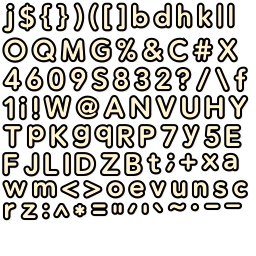
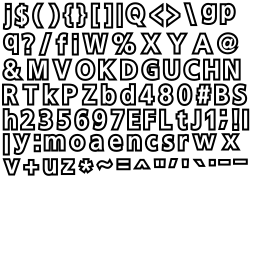
allfont 교체

diff --git a/Classes/CountingGame.cpp b/Classes/CountingGame.cpp
@@ -67,7 +67,7 @@ bool CountingGame::init(int priority, const std::function<void(CCObject*, SEL_Ca
 	m_menu->setPropaOnBegan(true);
 	addChild(m_menu, 1);
 	
-	m_timeFnt = CCLabelBMFont::create(CCString::createWithFormat("%d", m_remainTime)->getCString(), "etc_font.fnt");
+	m_timeFnt = CCLabelBMFont::create(CCString::createWithFormat("%d", m_remainTime)->getCString(), "allfont.fnt");
 	m_timeFnt->setPosition(ccp(420, 270));
 	addChild(m_timeFnt, 2);
 	
@@ -186,7 +186,7 @@ void CountingGame::createObject(float dt)
 																			addChild(resultMark, 10);
 																			
 																			CCLog("answer");
-																			CCLabelBMFont* result = CCLabelBMFont::create("ANSWER", "etc_font.fnt");
+																			CCLabelBMFont* result = CCLabelBMFont::create("ANSWER", "allfont.fnt");
 																			result->setPosition(ccp(240, 160));
 																			addChild(result);
 																			CCLog("correct!!");
@@ -228,7 +228,7 @@ void CountingGame::createObject(float dt)
 																			CCSprite* resultMark = CCSprite::create("bonusgame_bosscount_cancel.png");
 																			resultMark->setPosition(item->getPosition());
 																			addChild(resultMark, 10);
-																			CCLabelBMFont* result = CCLabelBMFont::create("WRONG", "etc_font.fnt");
+																			CCLabelBMFont* result = CCLabelBMFont::create("WRONG", "allfont.fnt");
 																			result->setPosition(ccp(240, 160));
 																			addChild(result);
 																			m_menu->setTouchEnabled(false);

diff --git a/Classes/StageSettingPopup.cpp b/Classes/StageSettingPopup.cpp
@@ -266,19 +266,19 @@ bool StageSettingPopup::init()
 	top_case->setPosition(ccp(240,(myDSH->puzzle_ui_top-320.f)/2.f + 320.f + 33.f));
 	addChild(top_case, kSSP_Z_top);
 	
-	CountingBMLabel* ruby_label = CountingBMLabel::create(CCString::createWithFormat("%d", mySGD->getStar())->getCString(), "etc_font.fnt", 0.3f, "%d");
+	CountingBMLabel* ruby_label = CountingBMLabel::create(CCString::createWithFormat("%d", mySGD->getStar())->getCString(), "allfont.fnt", 0.3f, "%d");
 	ruby_label->setPosition(ccp(94,top_case->getContentSize().height/2.f));
 	top_case->addChild(ruby_label);
 	
 	mySGD->setStarLabel(ruby_label);
 	
-	CountingBMLabel* gold_label = CountingBMLabel::create(CCString::createWithFormat("%d", mySGD->getGold())->getCString(), "etc_font.fnt", 0.3f, "%d");
+	CountingBMLabel* gold_label = CountingBMLabel::create(CCString::createWithFormat("%d", mySGD->getGold())->getCString(), "allfont.fnt", 0.3f, "%d");
 	gold_label->setPosition(ccp(185,top_case->getContentSize().height/2.f));
 	top_case->addChild(gold_label);
 	
 	mySGD->setGoldLabel(gold_label);
 	
-	CountingBMLabel* friend_point_label =  CountingBMLabel::create(CCString::createWithFormat("%d", mySGD->getFriendPoint())->getCString(), "etc_font.fnt", 0.3f, "%d");
+	CountingBMLabel* friend_point_label =  CountingBMLabel::create(CCString::createWithFormat("%d", mySGD->getFriendPoint())->getCString(), "allfont.fnt", 0.3f, "%d");
 	friend_point_label->setPosition(ccp(427,top_case->getContentSize().height/2.f));
 	top_case->addChild(friend_point_label);
 	

diff --git a/Classes/CardCase.cpp b/Classes/CardCase.cpp
@@ -470,7 +470,7 @@ void CardCase::myInit( int t_selected_card_number )
 	option_case->setScale(1.5f);
 	addChild(option_case, kCARDCASE_Z_innerCase);
 
-	CountingBMLabel* pow_label = CountingBMLabel::create("0", "etc_font.fnt", 0.5f, "%d");
+	CountingBMLabel* pow_label = CountingBMLabel::create("0", "allfont.fnt", 0.5f, "%d");
 	pow_label->setPosition(ccp(75,15));//145,58));
 	pow_label->setColor(ccRED);
 	pow_label->setScale(1.8f);
@@ -478,7 +478,7 @@ void CardCase::myInit( int t_selected_card_number )
 
 	pow_label->setString(CCString::createWithFormat("%d", int(NSDS_GI(kSDS_CI_int1_missile_power_i, t_selected_card_number)*((card_level-1)*0.1f+1.f)))->getCString());
 
-	CountingBMLabel* dex_label = CountingBMLabel::create("0", "etc_font.fnt", 0.5f, "%d");
+	CountingBMLabel* dex_label = CountingBMLabel::create("0", "allfont.fnt", 0.5f, "%d");
 	dex_label->setPosition(ccp(275,15));//145,26));
 	dex_label->setColor(ccGREEN);
 	dex_label->setScale(1.8f);
@@ -486,7 +486,7 @@ void CardCase::myInit( int t_selected_card_number )
 
 	dex_label->setString(CCString::createWithFormat("%d", int(NSDS_GI(kSDS_CI_int1_missile_dex_i, t_selected_card_number)*((card_level-1)*0.1f+1.f)))->getCString());
 
-	CountingBMLabel* spd_label = CountingBMLabel::create("0.0", "etc_font.fnt", 0.5f, "%.1f");
+	CountingBMLabel* spd_label = CountingBMLabel::create("0.0", "allfont.fnt", 0.5f, "%.1f");
 	spd_label->setPosition(ccp(175,15));//180,42));
 	spd_label->setColor(ccBLUE);
 	spd_label->setScale(1.8f);

diff --git a/Classes/PuzzleMapScene.cpp b/Classes/PuzzleMapScene.cpp
@@ -842,19 +842,19 @@ void PuzzleMapScene::setUIs()
 	top_case->setPosition(getUiButtonPosition(kPMS_MT_top));
 	addChild(top_case, kPMS_Z_ui_button, kPMS_MT_top);
 	
-	ruby_label = CountingBMLabel::create(CCString::createWithFormat("%d", mySGD->getStar())->getCString(), "etc_font.fnt", 0.3f, "%d");
+	ruby_label = CountingBMLabel::create(CCString::createWithFormat("%d", mySGD->getStar())->getCString(), "allfont.fnt", 0.3f, "%d");
 	ruby_label->setPosition(ccp(94,top_case->getContentSize().height/2.f));
 	top_case->addChild(ruby_label);
 	
 	mySGD->setStarLabel(ruby_label);
 	
-	gold_label = CountingBMLabel::create(CCString::createWithFormat("%d", mySGD->getGold())->getCString(), "etc_font.fnt", 0.3f, "%d");
+	gold_label = CountingBMLabel::create(CCString::createWithFormat("%d", mySGD->getGold())->getCString(), "allfont.fnt", 0.3f, "%d");
 	gold_label->setPosition(ccp(185,top_case->getContentSize().height/2.f));
 	top_case->addChild(gold_label);
 	
 	mySGD->setGoldLabel(gold_label);
 	
-	friend_point_label =  CountingBMLabel::create(CCString::createWithFormat("%d", mySGD->getFriendPoint())->getCString(), "etc_font.fnt", 0.3f, "%d");
+	friend_point_label =  CountingBMLabel::create(CCString::createWithFormat("%d", mySGD->getFriendPoint())->getCString(), "allfont.fnt", 0.3f, "%d");
 	friend_point_label->setPosition(ccp(427,top_case->getContentSize().height/2.f));
 	top_case->addChild(friend_point_label);
 	

diff --git a/Classes/HatGacha.cpp b/Classes/HatGacha.cpp
@@ -325,7 +325,7 @@ bool HatGachaSub::init(KSAlertView* av, std::function<void(void)> callback, cons
 		
 		std::string valueStr = CCString::createWithFormat("%d", temp_rs->m_value)->getCString();
 		valueStr = std::string("+") + KS::insert_separator(valueStr);
-		CCLabelBMFont* value = CCLabelBMFont::create(valueStr.c_str(), "mb_white_font.fnt");
+		CCLabelBMFont* value = CCLabelBMFont::create(valueStr.c_str(), "allfont.fnt");
 		rs->addChild(value);
 		value->setPosition(ccp(rs->getContentSize().width, rs->getContentSize().height) / 2.f);
 		
@@ -360,7 +360,7 @@ bool HatGachaSub::init(KSAlertView* av, std::function<void(void)> callback, cons
 			
 			std::string valueStr = CCString::createWithFormat("%d", temp_rs->m_value)->getCString();
 			valueStr = std::string("+") + KS::insert_separator(valueStr);
-			CCLabelBMFont* value = CCLabelBMFont::create(valueStr.c_str(), "mb_white_font.fnt");
+			CCLabelBMFont* value = CCLabelBMFont::create(valueStr.c_str(), "allfont.fnt");
 			fakeItem->addChild(value);
 			value->setPosition(ccp(rs->getContentSize().width, fakeItem->getContentSize().height) / 2.f);
 			

diff --git a/Classes/RankPopup.cpp b/Classes/RankPopup.cpp
@@ -733,7 +733,7 @@ CCTableViewCell * RankPopup::tableCellAtIndex (CCTableView * table, unsigned int
 	}
 	else
 	{
-		CCLabelBMFont* rankFnt = CCLabelBMFont::create(boost::str(boost::format("%||") % (idx + 1)).c_str(), "etc_font.fnt");
+		CCLabelBMFont* rankFnt = CCLabelBMFont::create(boost::str(boost::format("%||") % (idx + 1)).c_str(), "allfont.fnt");
 		cell->addChild(rankFnt);
 		rankFnt->setPosition(ccp(19, 19));
 	}
@@ -1768,14 +1768,14 @@ void RankPopup::touchCellIndex(int idx)
 	stageStr = KS::insert_separator(stageStr, ',', 3); // 3자리 마다 콤마찍기
 	m_highScore =
 	CCLabelBMFont::create(
-						  scoreStr.c_str(), "mb_white_font.fnt");
+						  scoreStr.c_str(), "allfont.fnt");
 	m_highScore->setScale(0.5f);
 	m_highScore->setPosition(ccp(125, 27));
 	addChild(m_highScore, 3);
 
 	m_highStage =
 		CCLabelBMFont::create(
-				stageStr.c_str(), "mb_white_font.fnt");
+				stageStr.c_str(), "allfont.fnt");
 	m_highStage->setScale(0.5f);
 	m_highStage->setPosition(ccp(125, 43));
 	addChild(m_highStage, 3);

diff --git a/Classes/MiniGamePopup.cpp b/Classes/MiniGamePopup.cpp
@@ -173,15 +173,15 @@ void MiniGamePopup::startCalcAction()
 	reward_case->setPosition(ccp(240-480, 150));
 	addChild(reward_case, kMiniGameZorder_content);
 	
-	reward_gold = CountingBMLabel::create("0", "etc_font.fnt", 1.f, "%d");
+	reward_gold = CountingBMLabel::create("0", "allfont.fnt", 1.f, "%d");
 	reward_gold->setPosition(ccp(210,44+25));
 	reward_case->addChild(reward_gold);
 	
-	reward_ruby = CountingBMLabel::create("0", "etc_font.fnt", 1.f, "%d");
+	reward_ruby = CountingBMLabel::create("0", "allfont.fnt", 1.f, "%d");
 	reward_ruby->setPosition(ccp(210,42.5f));
 	reward_case->addChild(reward_ruby);
 	
-	reward_social = CountingBMLabel::create("0", "etc_font.fnt", 1.f, "%d");
+	reward_social = CountingBMLabel::create("0", "allfont.fnt", 1.f, "%d");
 	reward_social->setPosition(ccp(210,41-25));
 	reward_case->addChild(reward_social);
 	

diff --git a/Classes/StagePiece.cpp b/Classes/StagePiece.cpp
@@ -206,7 +206,7 @@ void StagePiece::myInit (string t_piece, int t_number, int t_level, CCPoint t_p,
 		level_label->setPosition(ccp(piece_img->getContentSize().width/2.f, piece_img->getContentSize().height/2.f-6));
 		piece_img->addChild(level_label);
 		
-		CCLabelBMFont* level_count = CCLabelBMFont::create(CCString::createWithFormat("%d", stage_level)->getCString(), "levelcount.fnt");
+		CCLabelBMFont* level_count = CCLabelBMFont::create(CCString::createWithFormat("%d", stage_level)->getCString(), "allfont.fnt");
 		level_count->setAnchorPoint(ccp(0.5,0.5));
 		level_count->setPosition(ccp(piece_img->getContentSize().width/2.f, piece_img->getContentSize().height/2.f+6));
 		piece_img->addChild(((CCLabelBMFont*)level_count));

diff --git a/Classes/StageInfoDown.cpp b/Classes/StageInfoDown.cpp
@@ -268,7 +268,7 @@ void StageInfoDown::resultGetStageInfo(Json::Value result_data)
 			state_ment->setString("이미지 정보를 다운로드 합니다.");
 			ing_download_cnt = 1;
 			ing_download_per = 0;
-			download_state = CCLabelBMFont::create(CCSTR_CWF("%.0f\t%d/%d", ing_download_per*100.f, ing_download_cnt, int(df_list.size()))->getCString(), "etc_font.fnt");
+			download_state = CCLabelBMFont::create(CCSTR_CWF("%.0f\t%d/%d", ing_download_per*100.f, ing_download_cnt, int(df_list.size()))->getCString(), "allfont.fnt");
 			download_state->setPosition(ccp(240,130));
 			addChild(download_state, kSID_Z_content);
 			is_downloading = true;

diff --git a/Classes/PuzzlePiece.h b/Classes/PuzzlePiece.h
@@ -478,7 +478,7 @@ private:
 		level_label->setPosition(ccp(piece_img->getContentSize().width/2.f, piece_img->getContentSize().height/2.f));
 		piece_img->addChild(level_label);
 		
-		CCLabelBMFont* level_count = CCLabelBMFont::create(CCString::createWithFormat("%d", stage_level)->getCString(), "levelcount.fnt");
+		CCLabelBMFont* level_count = CCLabelBMFont::create(CCString::createWithFormat("%d", stage_level)->getCString(), "allfont.fnt");
 		level_count->setAnchorPoint(ccp(0.5,0.5));
 		level_count->setPosition(ccp(piece_img->getContentSize().width/2.f-9, piece_img->getContentSize().height/2.f-10));
 		piece_img->addChild(level_count);

diff --git a/Classes/StageListDown.cpp b/Classes/StageListDown.cpp
@@ -372,7 +372,7 @@ void StageListDown::resultGetStageList(Json::Value result_data)
 			state_ment->setPosition(ccp(240,80));
 			ing_download_cnt = 1;
 			ing_download_per = 0;
-			download_state = CCLabelBMFont::create(CCSTR_CWF("%.0f", (100.f*ing_download_cnt)/int(df_list.size()+sf_list.size()))->getCString(), "etc_font.fnt");
+			download_state = CCLabelBMFont::create(CCSTR_CWF("%.0f", (100.f*ing_download_cnt)/int(df_list.size()+sf_list.size()))->getCString(), "allfont.fnt");
 			download_state->setPosition(ccp(240,38));
 			addChild(download_state, kSLD_Z_content);
 			is_downloading = true;

diff --git a/Classes/Roulette.cpp b/Classes/Roulette.cpp
@@ -145,7 +145,7 @@ bool RouletteSub::init(KSAlertView* av, std::function<void(void)> callback, cons
 
 		if(i->m_kind == RewardKind::kGold || i->m_kind == RewardKind::kRuby)
 		{
-			CCLabelBMFont* m_value = CCLabelBMFont::create(CCString::createWithFormat("%d", i->m_value)->getCString(), "etc_font.fnt");
+			CCLabelBMFont* m_value = CCLabelBMFont::create(CCString::createWithFormat("%d", i->m_value)->getCString(), "allfont.fnt");
 			float degree = 360 / 7.f * degreeCount;
 			float rad = deg2Rad(-degree) + M_PI / 2.f;
 			m_value->setRotation(360 / 7.f * degreeCount);
